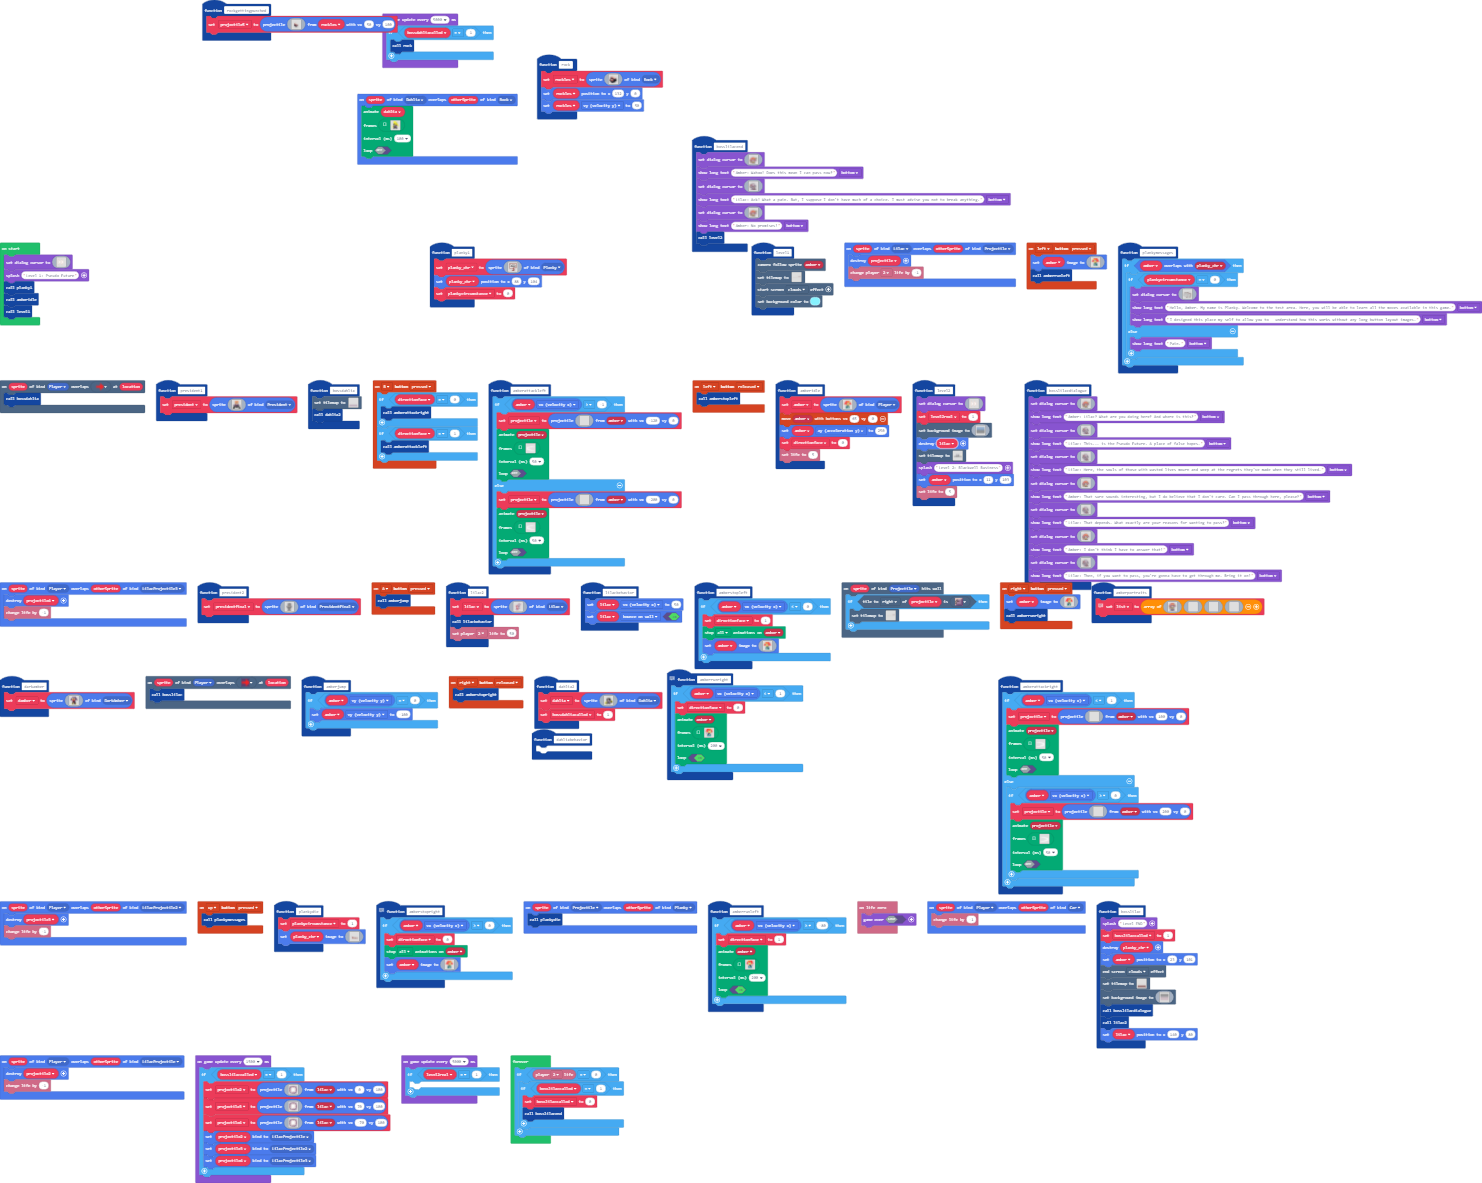
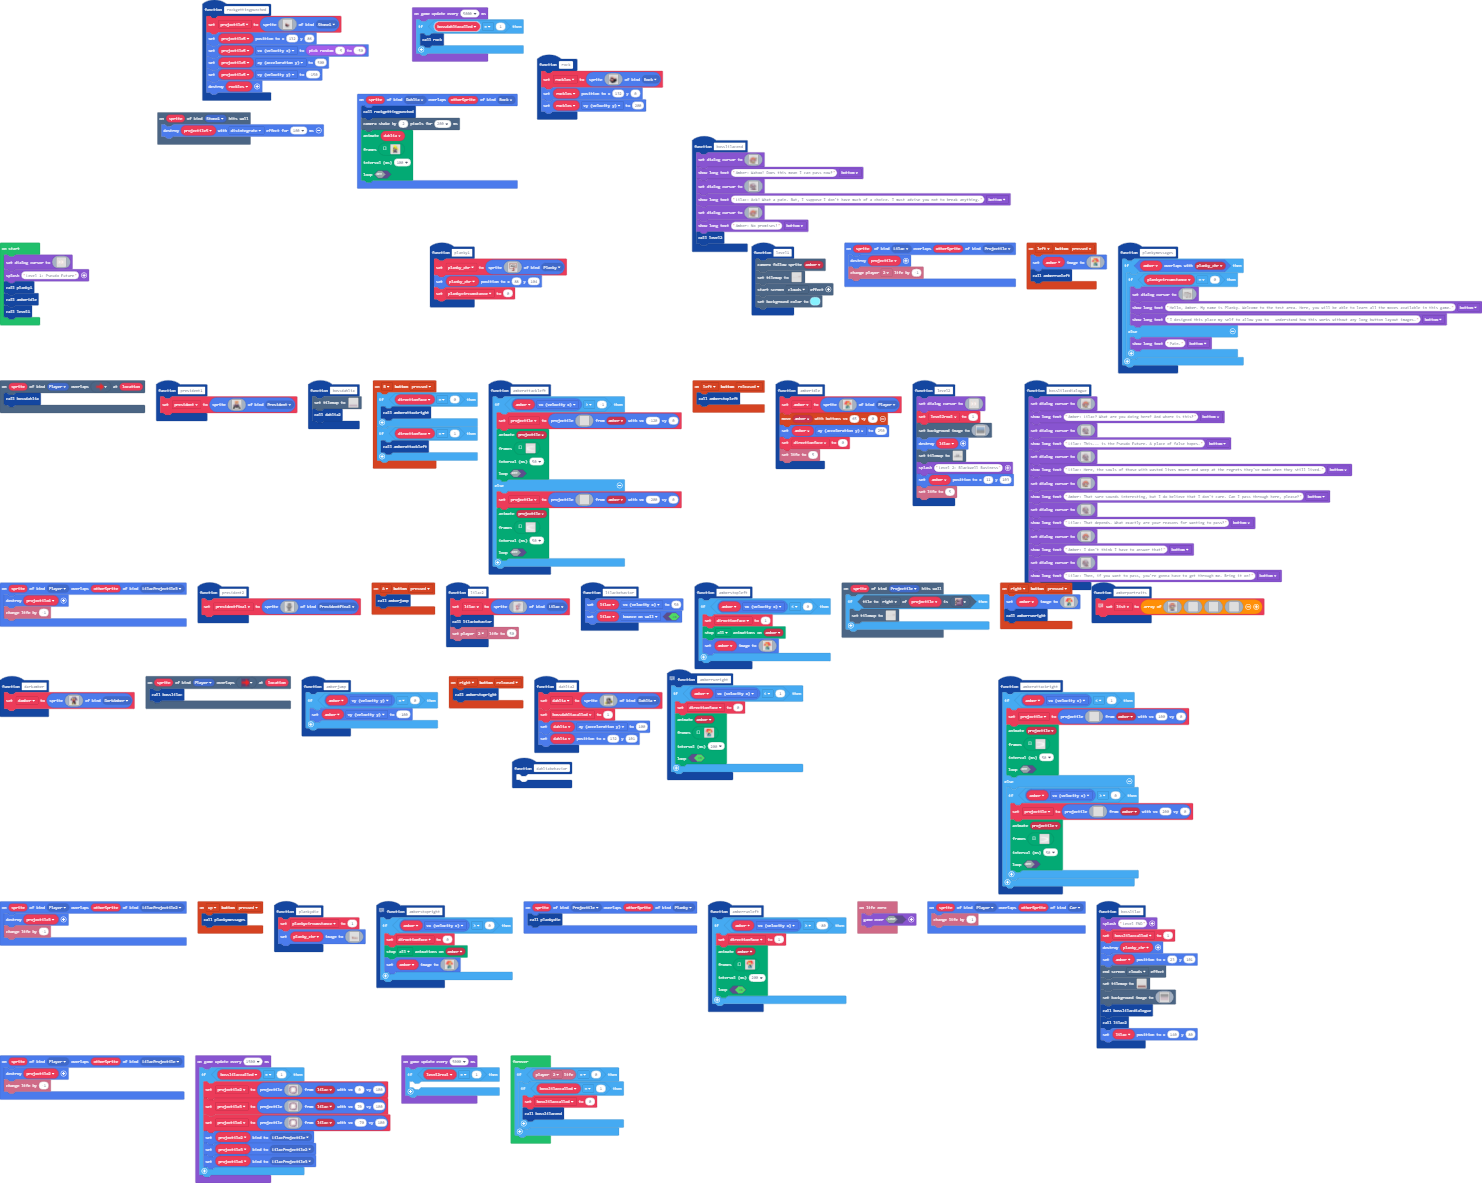
Update main.blocks, main.ts

diff --git a/main.ts b/main.ts
@@ -10,6 +10,7 @@ namespace SpriteKind {
     export const LilacProjectile3 = SpriteKind.create()
     export const Car = SpriteKind.create()
     export const Rock = SpriteKind.create()
+    export const Stone1 = SpriteKind.create()
 }
 namespace myTiles {
     //% blockIdentity=images._tile
@@ -578,7 +579,7 @@ function planky1 () {
     plankycircumstance = 0
 }
 function rockgettingpunched () {
-    projectile5 = sprites.createProjectileFromSprite(img`
+    projectile5 = sprites.create(img`
 . . . . . . . . . . . . . . . . 
 . . . . . . . . . . . . . . . . 
 . . . . . . . . . . . . . . . . 
@@ -595,32 +596,12 @@ function rockgettingpunched () {
 . . . . . . . . . . . . . . . . 
 . . . . . . . . . . . . . . . . 
 . . . . . . . . . . . . . . . . 
-`, rockles, 50, 100)
-}
-function rock () {
-    rockles = sprites.create(img`
-. . . . . . . . . . . . . . . . 
-. . . . . . . . . . . . . . . . 
-. . . . e d d d d . . . . . . . 
-. . . e d d d d d d . . . . . . 
-. . . e e d d d d d d d . . . . 
-. . c e e e e d d d d d d . . . 
-. . f f c e e e e d d d e . . . 
-. . c d f f f c e e e e c f . . 
-. e e d d d c f f c c f f f . . 
-. c e e d d d d c f f f f f . . 
-. f c e e e e e e f f f f f . . 
-. f f c e e e e c f f f f f . . 
-. . f f f c c c f f f f f . . . 
-. . . f f f f f f f f . . . . . 
-. . . . f f f f f . . . . . . . 
-. . . . . . . . . . . . . . . . 
-`, SpriteKind.Rock)
-    rockles.setPosition(132, 0)
-    rockles.vy = 50
-}
-function dahliabehavior () {
-	
+`, SpriteKind.Stone1)
+    projectile5.setPosition(132, 86)
+    projectile5.vx = Math.randomRange(-5, -50)
+    projectile5.ay = 500
+    projectile5.vy = -150
+    rockles.destroy()
 }
 function level1 () {
     scene.cameraFollowSprite(amber)
@@ -729,6 +710,9 @@ function plankymessages () {
         }
     }
 }
+scene.onHitWall(SpriteKind.Stone1, function (sprite) {
+    projectile5.destroy(effects.disintegrate, 100)
+})
 scene.onOverlapTile(SpriteKind.Player, myTiles.tile22, function (sprite, location) {
     bossdahlia()
 })
@@ -776,6 +760,9 @@ function bossdahlia () {
             TileScale.Sixteen
         ))
     dahlia2()
+}
+function dahliabehavior () {
+	
 }
 controller.B.onEvent(ControllerButtonEvent.Pressed, function () {
     if (directionface == 0) {
@@ -1172,6 +1159,8 @@ f f f f f f f f f f f f f f f f f f f f f f f f f f f f f f f f f f f f f f f f 
     info.setLife(5)
 }
 sprites.onOverlap(SpriteKind.Dahlia, SpriteKind.Rock, function (sprite, otherSprite) {
+    rockgettingpunched()
+    scene.cameraShake(2, 200)
     animation.runImageAnimation(
     dahlia,
     [img`
@@ -2068,6 +2057,8 @@ function dahlia2 () {
 . . . . . . . . . . . . . . . . . . . . 
 `, SpriteKind.Dahlia)
     bossdahliacalled = 1
+    dahlia.ay = 100
+    dahlia.setPosition(132, 101)
 }
 // makes the player's sprite change when running to
 //
@@ -2639,6 +2630,28 @@ sprites.onOverlap(SpriteKind.Player, SpriteKind.LilacProjectile, function (sprit
     projectile2.destroy()
     info.changeLifeBy(-1)
 })
+function rock () {
+    rockles = sprites.create(img`
+. . . . . . . . . . . . . . . . 
+. . . . . . . . . . . . . . . . 
+. . . . e d d d d . . . . . . . 
+. . . e d d d d d d . . . . . . 
+. . . e e d d d d d d d . . . . 
+. . c e e e e d d d d d d . . . 
+. . f f c e e e e d d d e . . . 
+. . c d f f f c e e e e c f . . 
+. e e d d d c f f c c f f f . . 
+. c e e d d d d c f f f f f . . 
+. f c e e e e e e f f f f f . . 
+. f f c e e e e c f f f f f . . 
+. . f f f c c c f f f f f . . . 
+. . . f f f f f f f f . . . . . 
+. . . . f f f f f . . . . . . . 
+. . . . . . . . . . . . . . . . 
+`, SpriteKind.Rock)
+    rockles.setPosition(132, 0)
+    rockles.vy = 200
+}
 let projectile2: Sprite = null
 let bosslilaccalled = 0
 let projectile3: Sprite = null
